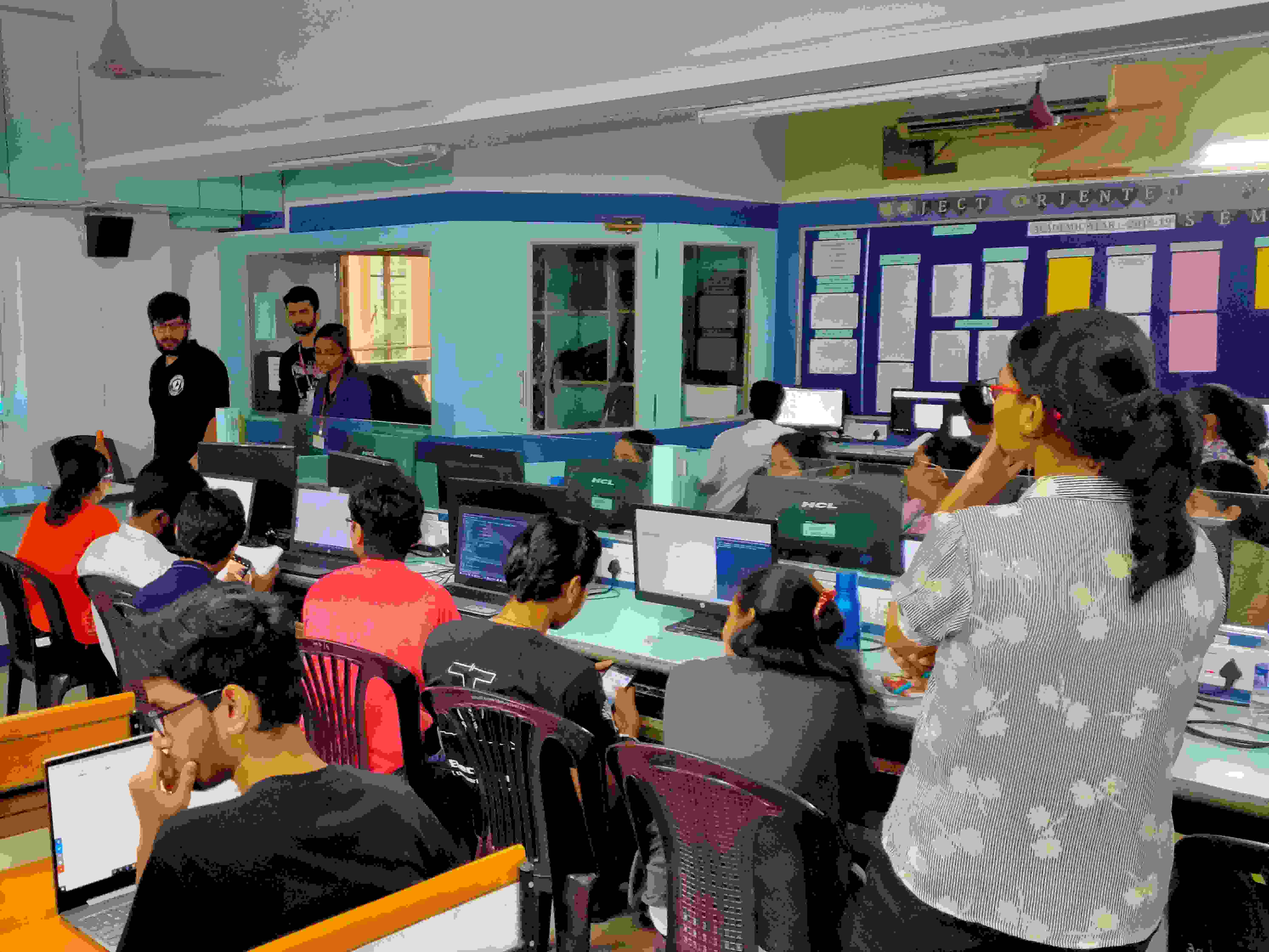
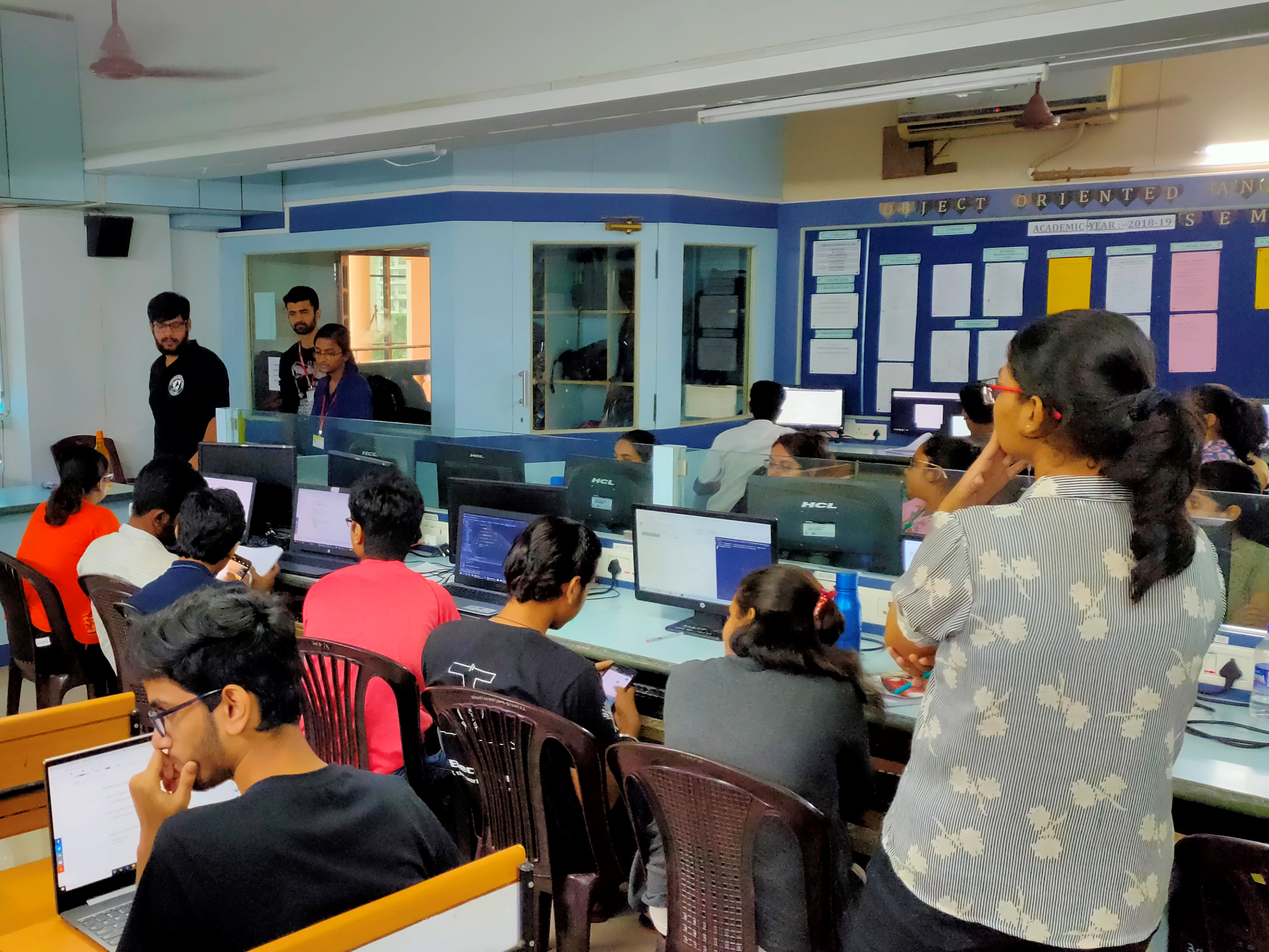
img 33

diff --git a/portfolio.html b/portfolio.html
@@ -791,19 +791,19 @@
                                        
                                         <div class="carousel-inner">
                                             <div class="carousel-item active">
-                                                <img class="d-block w-100 k1" src="assets_listing/img/JAVA/1.jpg"
+                                                <img class="d-block w-100 k1" src="assets_listing/img/JAVA/1.webp"
                                                     alt="First slide">
                                             </div>
                                             <div class="carousel-item">
-                                                <img class="d-block w-100 k1" src="assets_listing/img/JAVA/3.jpg"
+                                                <img class="d-block w-100 k1" src="assets_listing/img/JAVA/3.webp"
                                                     alt="Second slide">
                                             </div>
                                             <div class="carousel-item">
-                                                <img class="d-block w-100 k1" src="assets_listing/img/JAVA/4.jpg"
+                                                <img class="d-block w-100 k1" src="assets_listing/img/JAVA/4.webp"
                                                     alt="Third slide">
                                             </div>
                                             <div class="carousel-item">
-                                                <img class="d-block w-100 k1" src="assets_listing/img/JAVA/6.jpg"
+                                                <img class="d-block w-100 k1" src="assets_listing/img/JAVA/6.webp"
                                                     alt="Fourth slide">
                                             </div>
                                         </div>
@@ -868,19 +868,19 @@
                                        
                                         <div class="carousel-inner">
                                             <div class="carousel-item active">
-                                                <img class="d-block w-100 k1" src="assets_listing/img/PYTHON/1.jpg"
+                                                <img class="d-block w-100 k1" src="assets_listing/img/PYTHON/1.webp"
                                                     alt="First slide">
                                             </div>
                                             <div class="carousel-item">
-                                                <img class="d-block w-100 k1" src="assets_listing/img/PYTHON/2.jpg"
+                                                <img class="d-block w-100 k1" src="assets_listing/img/PYTHON/2.webp"
                                                     alt="Second slide">
                                             </div>
                                             <div class="carousel-item">
-                                                <img class="d-block w-100 k1" src="assets_listing/img/PYTHON/6.jpg"
+                                                <img class="d-block w-100 k1" src="assets_listing/img/PYTHON/6.webp"
                                                     alt="Third slide">
                                             </div>
                                             <div class="carousel-item">
-                                                <img class="d-block w-100 k1" src="assets_listing/img/PYTHON/7.jpg"
+                                                <img class="d-block w-100 k1" src="assets_listing/img/PYTHON/7.webp"
                                                     alt="Fourth slide">
                                             </div>
                                         </div>
@@ -945,19 +945,19 @@
                                    
                                     <div class="carousel-inner">
                                         <div class="carousel-item active">
-                                            <img class="d-block w-100 k1" src="assets_listing/img/GITHUB/1.jpg"
+                                            <img class="d-block w-100 k1" src="assets_listing/img/GITHUB/1.webp"
                                                 alt="First slide">
                                         </div>
                                         <div class="carousel-item">
-                                            <img class="d-block w-100 k1" src="assets_listing/img/GITHUB/3.jpg"
+                                            <img class="d-block w-100 k1" src="assets_listing/img/GITHUB/3.webp"
                                                 alt="Second slide">
                                         </div>
                                         <div class="carousel-item">
-                                            <img class="d-block w-100 k1" src="assets_listing/img/GITHUB/4.jpg"
+                                            <img class="d-block w-100 k1" src="assets_listing/img/GITHUB/4.webp"
                                                 alt="Third slide">
                                         </div>
                                         <div class="carousel-item">
-                                            <img class="d-block w-100 k1" src="assets_listing/img/GITHUB/5.jpg"
+                                            <img class="d-block w-100 k1" src="assets_listing/img/GITHUB/5.webp"
                                                 alt="Fourth slide">
                                         </div>
                                     </div>
@@ -1023,19 +1023,19 @@
                                    
                                     <div class="carousel-inner">
                                         <div class="carousel-item active">
-                                            <img class="d-block w-100 k1" src="assets_listing/img/BOOTSTRAP/2.jpg"
+                                            <img class="d-block w-100 k1" src="assets_listing/img/BOOTSTRAP/2.webp"
                                                 alt="First slide">
                                         </div>
                                         <div class="carousel-item">
-                                            <img class="d-block w-100 k1" src="assets_listing/img/BOOTSTRAP/3.jpg"
+                                            <img class="d-block w-100 k1" src="assets_listing/img/BOOTSTRAP/3.webp"
                                                 alt="Second slide">
                                         </div>
                                         <div class="carousel-item">
-                                            <img class="d-block w-100 k1" src="assets_listing/img/BOOTSTRAP/4.jpg"
+                                            <img class="d-block w-100 k1" src="assets_listing/img/BOOTSTRAP/4.webp"
                                                 alt="Third slide">
                                         </div>
                                         <div class="carousel-item">
-                                            <img class="d-block w-100 k1" src="assets_listing/img/BOOTSTRAP/5.jpg"
+                                            <img class="d-block w-100 k1" src="assets_listing/img/BOOTSTRAP/5.webp"
                                                 alt="Fourth slide">
                                         </div>
                                     </div>
@@ -1102,19 +1102,19 @@
                                    
                                     <div class="carousel-inner">
                                         <div class="carousel-item active">
-                                            <img class="d-block w-100 k1" src="assets_listing/img/DJANGO/1.jpg"
+                                            <img class="d-block w-100 k1" src="assets_listing/img/DJANGO/1.webp"
                                                 alt="First slide">
                                         </div>
                                         <div class="carousel-item">
-                                            <img class="d-block w-100 k1" src="assets_listing/img/DJANGO/2.jpg"
+                                            <img class="d-block w-100 k1" src="assets_listing/img/DJANGO/2.webp"
                                                 alt="Second slide">
                                         </div>
                                         <div class="carousel-item">
-                                            <img class="d-block w-100 k1" src="assets_listing/img/DJANGO/7.jpg"
+                                            <img class="d-block w-100 k1" src="assets_listing/img/DJANGO/7.webp"
                                                 alt="Third slide">
                                         </div>
                                         <div class="carousel-item">
-                                            <img class="d-block w-100 k1" src="assets_listing/img/DJANGO/4.jpg"
+                                            <img class="d-block w-100 k1" src="assets_listing/img/DJANGO/4.webp"
                                                 alt="Fourth slide">
                                         </div>
                                     </div>
@@ -1180,19 +1180,19 @@
                                    
                                     <div class="carousel-inner">
                                         <div class="carousel-item active">
-                                            <img class="d-block w-100 k1" src="assets_listing/img/ML/1.jpg"
+                                            <img class="d-block w-100 k1" src="assets_listing/img/ML/1.webp"
                                                 alt="First slide">
                                         </div>
                                         <div class="carousel-item">
-                                            <img class="d-block w-100 k1" src="assets_listing/img/ML/3.jpg"
+                                            <img class="d-block w-100 k1" src="assets_listing/img/ML/3.webp"
                                                 alt="Second slide">
                                         </div>
                                         <div class="carousel-item">
-                                            <img class="d-block w-100 k1" src="assets_listing/img/ML/4.jpg"
+                                            <img class="d-block w-100 k1" src="assets_listing/img/ML/4.webp"
                                                 alt="Third slide">
                                         </div>
                                         <div class="carousel-item">
-                                            <img class="d-block w-100 k1" src="assets_listing/img/ML/6.jpg"
+                                            <img class="d-block w-100 k1" src="assets_listing/img/ML/6.webp"
                                                 alt="Fourth slide">
                                         </div>
                                     </div>
@@ -1217,7 +1217,7 @@
                     <div class="portfolio-wrap">
                         <figure>
                             <div class="card" style="width: fit-content;height: fit-content;">
-                                <img class="card-img-top" src="assets_portfolio/img/fdp-min.jpg" alt="Card image cap" data-toggle="modal" data-target="#myModal16"></img>
+                                <img class="card-img-top" src="assets_portfolio/img/fdp.jpg" alt="Card image cap" data-toggle="modal" data-target="#myModal16"></img>
                                 <div class="card-body">
                                     <p class="card-text" style="text-align: center;font-family: 'Franklin Gothic Medium', 'Arial Narrow', Arial, sans-serif;font-weight: bold;">NATIONAL LEVEL FDP</p>
                                     <ul class="list-group list-group-flush" style="font-size: smaller;">
@@ -1255,15 +1255,15 @@
                                    
                                     <div class="carousel-inner">
                                         <div class="carousel-item active">
-                                            <img class="d-block w-100 k1" src="assets_listing/img/FDP/fdp3.jpg"
+                                            <img class="d-block w-100 k1" src="assets_listing/img/FDP/fdp1.webp"
                                                 alt="First slide">
                                         </div>
                                         <div class="carousel-item">
-                                            <img class="d-block w-100 k1" src="assets_listing/img/FDP/fdp1.jpg"
+                                            <img class="d-block w-100 k1" src="assets_listing/img/FDP/fdp2.webp"
                                                 alt="Second slide">
                                         </div>
                                         <div class="carousel-item">
-                                            <img class="d-block w-100 k1" src="assets_listing/img/FDP/fdp2.jpg"
+                                            <img class="d-block w-100 k1" src="assets_listing/img/FDP/fdp3.webp"
                                                 alt="Third slide">
                                         </div>
                                     </div>
@@ -1326,19 +1326,19 @@
                                    
                                     <div class="carousel-inner">
                                         <div class="carousel-item active">
-                                            <img class="d-block w-100 k1" src="assets_listing/img/JAVA APPIFY/appy4.jpg"
+                                            <img class="d-block w-100 k1" src="assets_listing/img/JAVA APPIFY/appy4.webp"
                                                 alt="First slide">
                                         </div>
                                         <div class="carousel-item">
-                                            <img class="d-block w-100 k1" src="assets_listing/img/JAVA APPIFY/appy1.jpg"
+                                            <img class="d-block w-100 k1" src="assets_listing/img/JAVA APPIFY/appy1.webp"
                                                 alt="Second slide">
                                         </div>
                                         <div class="carousel-item">
-                                            <img class="d-block w-100 k1" src="assets_listing/img/JAVA APPIFY/appy2.jpg"
+                                            <img class="d-block w-100 k1" src="assets_listing/img/JAVA APPIFY/appy2.webp"
                                                 alt="Third slide">
                                         </div>
                                         <div class="carousel-item">
-                                            <img class="d-block w-100 k1" src="assets_listing/img/JAVA APPIFY/appy3.jpg"
+                                            <img class="d-block w-100 k1" src="assets_listing/img/JAVA APPIFY/appy3.webp"
                                                 alt="Fourth slide">
                                         </div>
                                         
